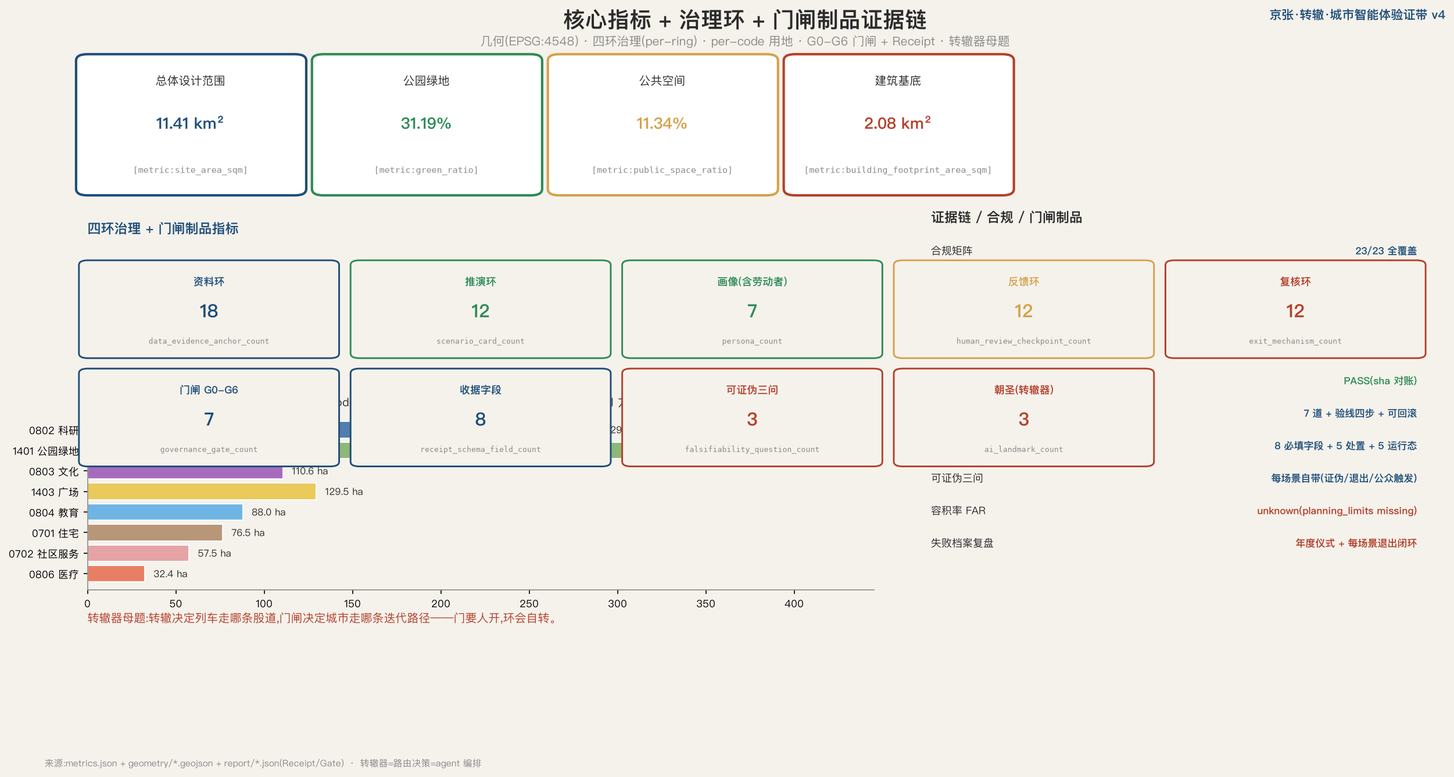
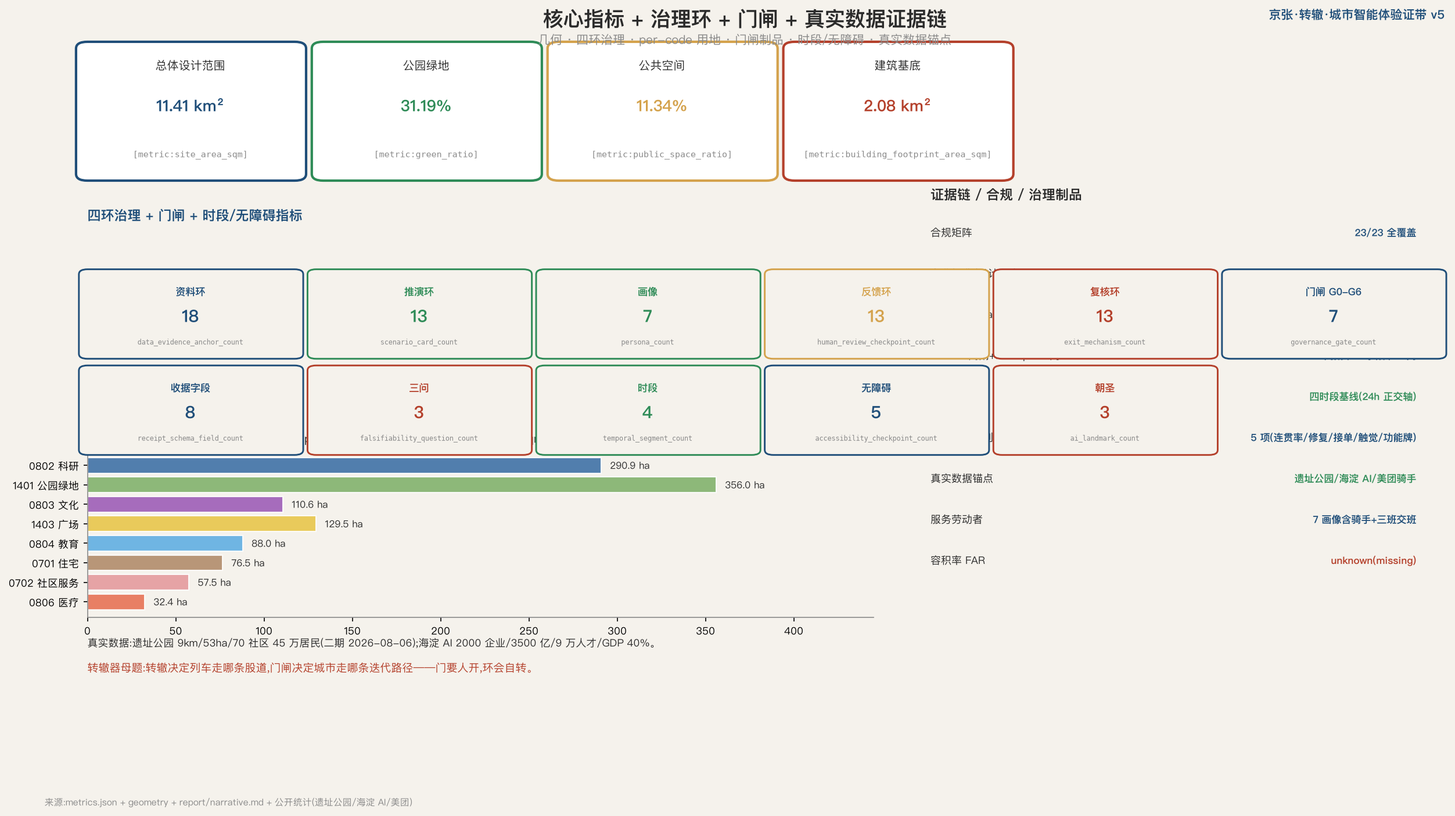
feat(submissions): 京张·转辙 v5 — 真实数据 + 无障碍 + 时段 + 服务劳动者三班
v5(在 v4 制品化基础上补齐被碾压/空白维度):真实数据锚点(遗址公园 9km/53ha/45 万居民+海淀 AI 2000 企业/3500 亿+美团骑手 336.3 万,sources.json 加 3 公开源)、无障碍工程制度(盲道连贯率月度盲测+修复 KPI+接单矩阵+触觉模型库+店铺功能牌,场景卡 13)、时段维度(四时段基线 24h 正交轴)、服务劳动者三班交班+夜间四要素、buildings 加 renewal_action。metrics 25 项,self_check 四重全 PASS。

diff --git a/submissions/xiaofenggan01/jingzhang-civic-agent-loop/report/proposal.html b/submissions/xiaofenggan01/jingzhang-civic-agent-loop/report/proposal.html
@@ -96,7 +96,7 @@ code {
 <figure class="proposal-figure"><img src="../assets/figures/land-use-structure.png" alt="三层范围与空间工作框架"><figcaption>三层范围与空间工作框架</figcaption></figure>
 <h2>统筹研究范围产业与未来城市研究</h2>
 <p>统筹研究范围回应公告 1.5（1）关于世界级 AI 创新生态体系的要求 <code><span class="evidence evidence-source">[source:AGENT-TASKBOOK]</span></code>。本方案研究全球 AI 创新生态并提出可转化机制，每个案例附公开核查入口与&quot;借鉴机制 / 不照搬边界&quot;两列：硅谷沙丘路、伦敦 King&#x27;s Cross、首尔 DMC、阿姆斯特丹 Marineterrein、深圳湾、波士顿 Kendall Square、东京柏叶、巴塞罗那 22@。案例后专门设**失败教训对照**（如多伦多 Quayside 因数据主权争议搁浅），反推场景卡&quot;数据来源 / 隐私边界 / 人工复核 / 失败回退&quot;四要素。</p>
-<p>现状诊断基于公开资料识别京张遗址公园周边典型问题：公共空间被交通与用地切割、东西缝合与南北到达不足、面向青年与中小团队的低门槛公共界面稀缺、AI 场景丰富但缺少持续记录资料与反馈的开放机制 <code><span class="evidence evidence-depth">[depth:existing_conditions_diagnosis]</span></code>。用地结构以网格化分区重构总体设计范围 <code><span class="evidence evidence-data">[data:geometry/land_use.geojson#LU-090]</span></code>，统筹与总体范围关系见指标 <code><span class="evidence evidence-metric">[metric:site_area_sqm]</span></code>。未来城市形态提出&quot;agent-readable city&quot;方向：所有空间建议都附带机器可读图层、指标、置信边界、拆改留与主导环标注，使后续智能体直接继承迭代。</p>
+<p>现状诊断基于公开资料与真实数据锚点 <code><span class="evidence evidence-source">[source:SITE-PARK-FACTS]</span></code> <code><span class="evidence evidence-source">[source:HAIDIAN-AI-FACTS]</span></code>：京张铁路遗址公园二期已于 2026-08-06 全面开放，全线约 9 公里、约 53 公顷，服务沿线近 70 个社区、约 45 万居民、9 个街镇与 10 余所高校科研院所；海淀区聚集 AI 企业超 2000 家、AI 核心产值超 3500 亿元（约占全国 30%）、AI 人才约 9 万、AI 产业占全区 GDP 约 40%。本方案识别的典型问题：公共空间被交通与用地切割、东西缝合与南北到达不足、面向青年与中小团队的低门槛公共界面稀缺、AI 场景丰富但缺少持续记录资料与反馈的开放机制 <code><span class="evidence evidence-depth">[depth:existing_conditions_diagnosis]</span></code>。用地结构以网格化分区重构总体设计范围 <code><span class="evidence evidence-data">[data:geometry/land_use.geojson#LU-090]</span></code>，统筹与总体范围关系见指标 <code><span class="evidence evidence-metric">[metric:site_area_sqm]</span></code>。未来城市形态提出&quot;agent-readable city&quot;方向：所有空间建议都附带机器可读图层、指标、置信边界、拆改留与主导环标注，使后续智能体直接继承迭代。</p>
 <h2>总体设计范围城市更新与控规深度城市设计</h2>
 <p>总体设计范围达控规城市设计深度，回应公告 1.5（2）<code><span class="evidence evidence-standard">[standard:MOHURD-CONTROL-DETAILED-PLANNING]</span></code>。总体空间结构以「一带三核两翼四环」为骨架，用地布局遵循《城市设计管理办法》<code><span class="evidence evidence-standard">[standard:MOHURD-URBAN-DESIGN-MEASURES]</span></code>，按国土空间用地用海分类指南编码 <code><span class="evidence evidence-standard">[standard:MNR-LAND-USE-CLASSIFICATION-GUIDE]</span></code>，形成产—学—研—居—游复合创新街区 <code><span class="evidence evidence-depth">[depth:land_use_layout]</span></code> <code><span class="evidence evidence-depth">[depth:overall_spatial_structure]</span></code>。</p>
 <p>更新框架采用**复核环驱动的循环流程**（识别—评估—建议—复核—回炉），区别于线性流程：智能体先基于公开资料生成保留 / 改造 / 楔入分类建议（每个地块带 renewal_action 属性），由规划、交通、文保、社区代表人工复核，复核结论回流资料环更新下一轮。典型更新单元如众智园北段科研用地 <code><span class="evidence evidence-data">[data:geometry/land_use.geojson#LU-090]</span></code>、AI 原点社区中段教育文化用地 <code><span class="evidence evidence-data">[data:geometry/land_use.geojson#LU-060]</span></code>、大钟寺南段产业用地 <code><span class="evidence evidence-data">[data:geometry/land_use.geojson#LU-030]</span></code>，复核检查点数量见治理环指标 <code><span class="evidence evidence-metric">[metric:human_review_checkpoint_count]</span></code>。本方案不给出容积率、建筑高度、拆改留具体地块或道路红线最终结论——这些法定判断依赖尚未公开的审定控规，待专业团队取得官方条件后深化。</p>
@@ -105,8 +105,8 @@ code {
 <figure class="proposal-figure"><img src="../assets/figures/key-areas.png" alt="三处重点区域索引与设计任务"><figcaption>三处重点区域索引与设计任务</figcaption></figure>
 <h2>AI 创新生态、人才画像与 AI+ 场景</h2>
 <p>本方案以场景为 AI 落地最小单元，回应任务书 agent.3 <code><span class="evidence evidence-source">[source:AGENT-TASKBOOK]</span></code>。产业测试验证场景**全部为数字孪生 / 合规 / 仿真型**。每张场景卡映射到空间载体、服务对象、数据来源、隐私边界、人工复核、**失败回退**与风险八列 <code><span class="evidence evidence-data">[data:geometry/public_space.geojson]</span></code>，场景总数见指标 <code><span class="evidence evidence-metric">[metric:scenario_card_count]</span></code>，退出机制总数见指标 <code><span class="evidence evidence-metric">[metric:exit_mechanism_count]</span></code>。</p>
-<p>| # | 场景 | 空间载体 | 服务对象 | 数据来源 | 隐私边界 | 人工复核 | 失败回退 | |---|---|---|---|---|---|---|---| | 01 | 多模态城市资料中台 | 全域·资料环 | 全体智能体/公众 | 公开任务书+登记 | 聚合脱敏 | 资料委员会 | 回退至上一稳定版本 | | 02 | 用地合规自动复核 | 众智园·复核环 | 规划师 | 公开控规红线 | 不存个人数据 | 规划师终审 | 标记待定+人工裁定 | | 03 | 交通 OD 推演沙盘 | 全域·推演环 | 治理者 | 公开交通统计 | 聚合无轨迹 | 交通专家复核 | 推演作废+重设参数 | | 04 | 公共空间活力反馈 | AI 原点·反馈环 | 居民/访客 | 授权反馈 | 反馈脱敏 | 社区代表 | 关停+线下征集 | | 05 | 碳排仿真与蓝绿调度 | 全域·推演环 | 治理者 | 公开监测站 | 无个人数据 | 环境专家 | 切换保守调度 | | 06 | AI 研发用地智能匹配 | 众智园·资料环 | 创业者 | 公开资源目录 | 企业自主申报 | 园区审核 | 退回人工匹配 | | 07 | 京张遗产叙事生成 | AI 原点·复核环 | 访客/学者 | 公开史料 | 不涉肖像权 | 文保专家 | 下架+人工撰写 | | 08 | 适老化公共服务导航 | 大钟寺·反馈环 | 老年居民 | 公共服务目录 | 不存身份 | 社工复核 | 转人工窗口+纸质 | | 09 | 应急疏散推演 | 全域·推演环 | 治理者 | 公开空间数据 | 无个人数据 | 应急部门 | 启动既定预案 | | 10 | 人才画像空间匹配 | 众智园·资料环 | 人才/企业 | 授权画像 | 最小化+可撤回 | 人才办 | 清除画像+申诉 | | 11 | 众创社区议事治理 | 大钟寺·反馈环 | 居民/治理者 | 公开议事 | 议事公开 | 议事会 | 复议+独立仲裁 | | 12 | 数字包容三通道服务台 | 三重点区·反馈环 | 老年人/服务劳动者 | 公共服务目录 | 不存身份 | 社工+志愿者 | 全量转人工+纸质回退 |</p>
-<p>用户画像七类 <code><span class="evidence evidence-metric">[metric:persona_count]</span></code>：AI 创业者与算法工程师、高校研究者与京张学者、原住民与老年居民、返乡青年与数字游民、城市治理者与规划师、京张通勤者，以及**服务劳动者（骑手 / 保洁 / 安保 / 配送员）**——他们是创新带日常运转的支撑者却最易被数字方案忽略，本方案在数字包容三通道、公共空间组件库与低速试点中显式纳入其需求。建筑体量与风貌围绕画像与场景组织 <code><span class="evidence evidence-depth">[depth:height_massing_character]</span></code>，高度受限于未公开控规仅作方向性建议。所有涉个人服务、企业经营、医疗、法律与公共安全的场景均为信息辅助，不替代专业判断。</p>
+<p>| # | 场景 | 空间载体 | 服务对象 | 数据来源 | 隐私边界 | 人工复核 | 失败回退 | |---|---|---|---|---|---|---|---| | 01 | 多模态城市资料中台 | 全域·资料环 | 全体智能体/公众 | 公开任务书+登记 | 聚合脱敏 | 资料委员会 | 回退至上一稳定版本 | | 02 | 用地合规自动复核 | 众智园·复核环 | 规划师 | 公开控规红线 | 不存个人数据 | 规划师终审 | 标记待定+人工裁定 | | 03 | 交通 OD 推演沙盘 | 全域·推演环 | 治理者 | 公开交通统计 | 聚合无轨迹 | 交通专家复核 | 推演作废+重设参数 | | 04 | 公共空间活力反馈 | AI 原点·反馈环 | 居民/访客 | 授权反馈 | 反馈脱敏 | 社区代表 | 关停+线下征集 | | 05 | 碳排仿真与蓝绿调度 | 全域·推演环 | 治理者 | 公开监测站 | 无个人数据 | 环境专家 | 切换保守调度 | | 06 | AI 研发用地智能匹配 | 众智园·资料环 | 创业者 | 公开资源目录 | 企业自主申报 | 园区审核 | 退回人工匹配 | | 07 | 京张遗产叙事生成 | AI 原点·复核环 | 访客/学者 | 公开史料 | 不涉肖像权 | 文保专家 | 下架+人工撰写 | | 08 | 适老化公共服务导航 | 大钟寺·反馈环 | 老年居民 | 公共服务目录 | 不存身份 | 社工复核 | 转人工窗口+纸质 | | 09 | 应急疏散推演 | 全域·推演环 | 治理者 | 公开空间数据 | 无个人数据 | 应急部门 | 启动既定预案 | | 10 | 人才画像空间匹配 | 众智园·资料环 | 人才/企业 | 授权画像 | 最小化+可撤回 | 人才办 | 清除画像+申诉 | | 11 | 众创社区议事治理 | 大钟寺·反馈环 | 居民/治理者 | 公开议事 | 议事公开 | 议事会 | 复议+独立仲裁 | | 12 | 数字包容三通道服务台 | 三重点区·反馈环 | 老年人/服务劳动者 | 公共服务目录 | 不存身份 | 社工+志愿者 | 全量转人工+纸质回退 | | 13 | 无障碍连贯率监测 | 全域·反馈环 | 视障/行动不便者 | 公开空间+授权反馈 | 聚合无轨迹 | 无障碍专家+网格员 | 修复工单+复检合格率 |</p>
+<p>用户画像七类 <code><span class="evidence evidence-metric">[metric:persona_count]</span></code>：AI 创业者与算法工程师、高校研究者与京张学者、原住民与老年居民、返乡青年与数字游民、城市治理者与规划师、京张通勤者，以及**服务劳动者（骑手 / 保洁 / 安保 / 配送员）**——他们是创新带日常运转的支撑者却最易被数字方案忽略（参照公开数据，2024 年仅美团月均有收入骑手即达 336.3 万、53.7% 为家庭唯一收入来源 <code><span class="evidence evidence-source">[source:PLATFORM-LABOR-FACTS]</span></code>）。本方案为服务劳动者配早/日/夜三班交班厅（抵达/休息/餐食/照护/维修/申诉六接口），夜间遵循“有人、有光、有水、有退路”四要素，并在数字包容三通道、公共空间组件库与低速试点中显式纳入其需求。建筑体量与风貌围绕画像与场景组织 <code><span class="evidence evidence-depth">[depth:height_massing_character]</span></code>，高度受限于未公开控规仅作方向性建议。所有涉个人服务、企业经营、医疗、法律与公共安全的场景均为信息辅助，不替代专业判断。</p>
 <h2>机器可读治理制品（Receipt + 门闸状态机）</h2>
 <p>本方案把&quot;agent-readable city&quot;从宣言落成可运行制品，使四环协作成为**可审计、可回滚、可证伪的状态机**，而非隐喻。每次城市智能体干预都产出三件配套制品，全部位于 <code>report/</code> 目录。</p>
 <p>**Civic Agent Receipt 收据**（<code>report/narrative.md § Receipt Schema</code>）定义每次干预的字段：证据引用、人工责任（写角色不指派真实政府部门）、最差组优先（受影响最大群体）、申诉通道、处置结果（pending / pass / fail / rollback / exit）、运行状态（sandbox_only / not_run / controlled_test / public_pilot / retired）、性能结果（null 表示未运行，不冒充已测试）。收据字段数见指标 <code><span class="evidence evidence-metric">[metric:receipt_schema_field_count]</span></code>。</p>
@@ -114,9 +114,13 @@ code {
 <p>**示例收据**（<code>report/narrative.md § Example Receipt</code>）演示用地合规自动复核场景的 G3 收据，明确标 sandbox_only / not_run / performance_results=null——不冒充已运行。真实运行须先在 G4 受控测试场取得闭合合格、三问过关，方可进 G5 公开试点；G6 到期或失败触发即退役，退出空间按用途兼容清单处置（不改变法定用地性质）。这套制品把本方案的&quot;失败档案复盘&quot;年度仪式落成每个场景自带的、可证伪的闭环。</p>
 <h2>用地、建筑规模与拆改留方案</h2>
 <p>用地布局以网格化分区覆盖总体设计范围，每个地块无缝衔接并标注 renewal_action（保留 / 改造提升 / 楔入新建）与 governance_ring（资料 / 推演 / 反馈 / 复核主导环）<code><span class="evidence evidence-depth">[depth:land_use_layout]</span></code>。按用地用海分类指南，主要类型与面积为：科研用地 0802 约 2909028 平方米 <code><span class="evidence evidence-metric">[metric:land_use_area_0802_sqm]</span></code>、公园绿地 1401 约 3560158 平方米 <code><span class="evidence evidence-metric">[metric:land_use_area_1401_sqm]</span></code>、文化用地 0803 约 1106412 平方米 <code><span class="evidence evidence-metric">[metric:land_use_area_0803_sqm]</span></code>、广场用地 1403 约 1294587 平方米 <code><span class="evidence evidence-metric">[metric:land_use_area_1403_sqm]</span></code>、教育用地 0804 约 879534 平方米 <code><span class="evidence evidence-metric">[metric:land_use_area_0804_sqm]</span></code>、城镇住宅 0701 约 764667 平方米 <code><span class="evidence evidence-metric">[metric:land_use_area_0701_sqm]</span></code>、社区服务 0702 约 574649 平方米 <code><span class="evidence evidence-metric">[metric:land_use_area_0702_sqm]</span></code>、医疗卫生 0806 约 323810 平方米 <code><span class="evidence evidence-metric">[metric:land_use_area_0806_sqm]</span></code>。</p>
+<h3>时段维度（24h 正交轴）</h3>
+<p>本方案为每个地块叠加**四时段基线**——07-10 通勤 / 10-18 研发 / 18-22 共学 / 22-07 必要低噪——作为时段利用率的待调查假设，检验存量空间能否在更多时间服务更多人，而非仅画终局蓝图。保留 / 改造 / 楔入 × 四时段开放矩阵，使 40 个地块多出一维可证伪的实证指标 <code><span class="evidence evidence-metric">[metric:temporal_segment_count]</span></code>。</p>
 <p>建筑规模与拆改留遵循「保留先行、改造为主、谨慎拆除、复合新建」<code><span class="evidence evidence-depth">[depth:retain_renovate_demolish]</span></code>：现状科研与教育建筑优先保留与改造提升，新增建筑足迹集中在科研、文化、教育、居住与社区服务用地 <code><span class="evidence evidence-data">[data:geometry/buildings.geojson]</span></code>，建筑基底约 2083289.604 平方米 <code><span class="evidence evidence-metric">[metric:building_footprint_area_sqm]</span></code>。开发强度受限于 site-package 中容积率、建筑高度、密度、绿地率（控规）与退让五项均 missing <code><span class="evidence evidence-depth">[depth:development_intensity_controls]</span></code>，本方案不给出具体数值。建筑基底、拆改留分类与开发强度均属概念建议，待官方控规与现状建筑、权属资料公开后由专业团队复核。</p>
 <h2>交通、轨道、市政与公共服务设施</h2>
-<p>交通组织回应公告对轨道接驳、慢行断点、无障碍与新型基础设施的要求 <code><span class="evidence evidence-depth">[depth:traffic_rail_slow_parking]</span></code>。本方案以京张铁路遗址公园为南北慢行主廊道，串联三重点区，布设横向联系道路缝合东西 <code><span class="evidence evidence-data">[data:geometry/roads.geojson]</span></code>。慢行系统以「可达、可停、可换乘」为标准；自动驾驶接驳、机器人配送与无人巡检只在明确边界、低速、可监管的公开试点范围讨论，并为服务劳动者预留低速驿站与设备充电接口。轨道站点一体化强化站点与重点区、公共空间的步行衔接，具体线位与站点属工程范畴，本方案不给最终结论。</p>
+<p>交通组织回应公告对轨道接驳、慢行断点、无障碍与新型基础设施的要求 <code><span class="evidence evidence-depth">[depth:traffic_rail_slow_parking]</span></code>。本方案以京张铁路遗址公园为南北慢行主廊道，串联三重点区，布设横向联系道路缝合东西 <code><span class="evidence evidence-data">[data:geometry/roads.geojson]</span></code>。慢行系统以「可达、可停、可换乘」为标准；自动驾驶接驳、机器人配送与无人巡检只在明确边界、低速、可监管的公开试点范围讨论，并为服务劳动者预留低速驿站与设备充电接口。### 无障碍工程制度</p>
+<p>本方案的无障碍不止于通道，而是可验收的工程制度：**盲道连贯率**采用月度盲测口径（不测瞬时状态）、**修复导向 KPI**（工单平均处置时长 + 复检合格率）、占用类型 × 责任单位 × 处置时限 × 核查方式**接单责任矩阵**（落入既有接诉即办 / 网格平台，不自建派单）、**开源触觉模型库**（符号化派生模型 + 验收测试卡 + 版本召回），以及店铺功能牌考核“盲文与实际业态一致率”而非挂牌率；无障碍连贯率监测作为场景卡 13 落地 <code><span class="evidence evidence-metric">[metric:accessibility_checkpoint_count]</span></code>。</p>
+<p>轨道站点一体化强化站点与重点区、公共空间的步行衔接，具体线位与站点属工程范畴，本方案不给最终结论。</p>
 <p>市政与新型基础设施采用「端侧算力 + 分布式能源 + 传统市政融合」<code><span class="evidence evidence-depth">[depth:municipal_new_infrastructure]</span></code>，众智园布局算力与数据中心配套，公共空间与建筑屋顶布局分布式能源与雨水回收。公共服务设施围绕七类用户画像配置 AI+医疗健康导航、AI+教育文化导览、AI+法律与企业服务咨询与人才生活服务，所有服务保留**数字 + 人工 + 纸质 / 静态替代**三通道回退（场景卡 12），确保数字包容与适老化，数据来源限定公开或授权聚合。</p>
 <figure class="proposal-figure"><img src="../assets/figures/mobility-bluegreen.png" alt="交通慢行与蓝绿公共空间复合系统"><figcaption>交通慢行与蓝绿公共空间复合系统</figcaption></figure>
 <h2>蓝绿空间、公共空间与城市风貌</h2>

diff --git a/submissions/xiaofenggan01/jingzhang-civic-agent-loop/visual/index.html b/submissions/xiaofenggan01/jingzhang-civic-agent-loop/visual/index.html
@@ -51,6 +51,7 @@ td,th{border:1px solid var(--grey);padding:6px 8px;text-align:left;}th{backgroun
 <div class="kpi green"><div class="n">公园绿地比例</div><div class="v"><span data-metric="green_ratio" data-value="0.311944">31.19%</span></div><div class="note">geometry/green_space.geojson</div></div>
 <div class="kpi yellow"><div class="n">公共空间比例</div><div class="v"><span data-metric="public_space_ratio" data-value="0.113433">11.34%</span></div><div class="note">geometry/public_space.geojson</div></div>
 </div>
+<div style="background:#fff;border:1px solid var(--grey);border-radius:10px;padding:14px;margin-bottom:18px;font-size:13px"><b style="color:var(--blue)">真实数据锚点</b>（公开源，非 provisional 复算）：京张遗址公园二期 <b>2026-08-06 开放</b>，全线约 <b>9km/53ha</b>，服务近 <b>70 社区约 45 万居民</b>；海淀 AI 企业 <b>2000+</b>、核心产值 <b>3500 亿</b>（约全国 30%）、人才 <b>9 万</b>、占全区 GDP <b>40%</b>；平台劳动者（美团 2024 月均有收入骑手 <b>336.3 万</b>）。</div>
 
 <section><h2>四环协作</h2>
 <div style="display:grid;grid-template-columns:1fr 1fr;gap:18px;align-items:center">
@@ -141,6 +142,7 @@ td,th{border:1px solid var(--grey);padding:6px 8px;text-align:left;}th{backgroun
 <div class="scenario"><b>⑩ 人才画像空间匹配</b><br>资料环 · 众智园</div>
 <div class="scenario"><b>⑪ 众创社区议事治理</b><br>反馈环 · 大钟寺</div>
 <div class="scenario"><b>⑫ 数字包容三通道</b><br>反馈环 · 三重点区 · <span class="pill g">包容</span></div>
+<div class="scenario"><b>⑬ 无障碍连贯率监测</b><br>反馈环 · 全域 · <span class="pill g">无障碍</span></div>
 <div class="scenario"><b>用户画像 ×7</b><br>创业者/学者/原住民/青年/治理者/通勤者/<b style="color:#B4402B">服务劳动者</b></div>
 </div>
 <h3>更新项目</h3>

diff --git a/submissions/xiaofenggan01/jingzhang-civic-agent-loop/proposal.md b/submissions/xiaofenggan01/jingzhang-civic-agent-loop/proposal.md
@@ -31,7 +31,7 @@ iteration: "v4.0"
 
 统筹研究范围回应公告 1.5（1）关于世界级 AI 创新生态体系的要求 `[source:AGENT-TASKBOOK]`。本方案研究全球 AI 创新生态并提出可转化机制，每个案例附公开核查入口与"借鉴机制 / 不照搬边界"两列：硅谷沙丘路、伦敦 King's Cross、首尔 DMC、阿姆斯特丹 Marineterrein、深圳湾、波士顿 Kendall Square、东京柏叶、巴塞罗那 22@。案例后专门设**失败教训对照**（如多伦多 Quayside 因数据主权争议搁浅），反推场景卡"数据来源 / 隐私边界 / 人工复核 / 失败回退"四要素。
 
-现状诊断基于公开资料识别京张遗址公园周边典型问题：公共空间被交通与用地切割、东西缝合与南北到达不足、面向青年与中小团队的低门槛公共界面稀缺、AI 场景丰富但缺少持续记录资料与反馈的开放机制 `[depth:existing_conditions_diagnosis]`。用地结构以网格化分区重构总体设计范围 `[data:geometry/land_use.geojson#LU-090]`，统筹与总体范围关系见指标 `[metric:site_area_sqm]`。未来城市形态提出"agent-readable city"方向：所有空间建议都附带机器可读图层、指标、置信边界、拆改留与主导环标注，使后续智能体直接继承迭代。
+现状诊断基于公开资料与真实数据锚点 `[source:SITE-PARK-FACTS]` `[source:HAIDIAN-AI-FACTS]`：京张铁路遗址公园二期已于 2026-08-06 全面开放，全线约 9 公里、约 53 公顷，服务沿线近 70 个社区、约 45 万居民、9 个街镇与 10 余所高校科研院所；海淀区聚集 AI 企业超 2000 家、AI 核心产值超 3500 亿元（约占全国 30%）、AI 人才约 9 万、AI 产业占全区 GDP 约 40%。本方案识别的典型问题：公共空间被交通与用地切割、东西缝合与南北到达不足、面向青年与中小团队的低门槛公共界面稀缺、AI 场景丰富但缺少持续记录资料与反馈的开放机制 `[depth:existing_conditions_diagnosis]`。用地结构以网格化分区重构总体设计范围 `[data:geometry/land_use.geojson#LU-090]`，统筹与总体范围关系见指标 `[metric:site_area_sqm]`。未来城市形态提出"agent-readable city"方向：所有空间建议都附带机器可读图层、指标、置信边界、拆改留与主导环标注，使后续智能体直接继承迭代。
 
 ## 总体设计范围城市更新与控规深度城市设计
 
@@ -63,8 +63,9 @@ iteration: "v4.0"
 | 10 | 人才画像空间匹配 | 众智园·资料环 | 人才/企业 | 授权画像 | 最小化+可撤回 | 人才办 | 清除画像+申诉 |
 | 11 | 众创社区议事治理 | 大钟寺·反馈环 | 居民/治理者 | 公开议事 | 议事公开 | 议事会 | 复议+独立仲裁 |
 | 12 | 数字包容三通道服务台 | 三重点区·反馈环 | 老年人/服务劳动者 | 公共服务目录 | 不存身份 | 社工+志愿者 | 全量转人工+纸质回退 |
+| 13 | 无障碍连贯率监测 | 全域·反馈环 | 视障/行动不便者 | 公开空间+授权反馈 | 聚合无轨迹 | 无障碍专家+网格员 | 修复工单+复检合格率 |
 
-用户画像七类 `[metric:persona_count]`：AI 创业者与算法工程师、高校研究者与京张学者、原住民与老年居民、返乡青年与数字游民、城市治理者与规划师、京张通勤者，以及**服务劳动者（骑手 / 保洁 / 安保 / 配送员）**——他们是创新带日常运转的支撑者却最易被数字方案忽略，本方案在数字包容三通道、公共空间组件库与低速试点中显式纳入其需求。建筑体量与风貌围绕画像与场景组织 `[depth:height_massing_character]`，高度受限于未公开控规仅作方向性建议。所有涉个人服务、企业经营、医疗、法律与公共安全的场景均为信息辅助，不替代专业判断。
+用户画像七类 `[metric:persona_count]`：AI 创业者与算法工程师、高校研究者与京张学者、原住民与老年居民、返乡青年与数字游民、城市治理者与规划师、京张通勤者，以及**服务劳动者（骑手 / 保洁 / 安保 / 配送员）**——他们是创新带日常运转的支撑者却最易被数字方案忽略（参照公开数据，2024 年仅美团月均有收入骑手即达 336.3 万、53.7% 为家庭唯一收入来源 `[source:PLATFORM-LABOR-FACTS]`）。本方案为服务劳动者配早/日/夜三班交班厅（抵达/休息/餐食/照护/维修/申诉六接口），夜间遵循“有人、有光、有水、有退路”四要素，并在数字包容三通道、公共空间组件库与低速试点中显式纳入其需求。建筑体量与风貌围绕画像与场景组织 `[depth:height_massing_character]`，高度受限于未公开控规仅作方向性建议。所有涉个人服务、企业经营、医疗、法律与公共安全的场景均为信息辅助，不替代专业判断。
 
 ## 机器可读治理制品（Receipt + 门闸状态机）
 
@@ -80,11 +81,19 @@ iteration: "v4.0"
 
 用地布局以网格化分区覆盖总体设计范围，每个地块无缝衔接并标注 renewal_action（保留 / 改造提升 / 楔入新建）与 governance_ring（资料 / 推演 / 反馈 / 复核主导环）`[depth:land_use_layout]`。按用地用海分类指南，主要类型与面积为：科研用地 0802 约 2909028 平方米 `[metric:land_use_area_0802_sqm]`、公园绿地 1401 约 3560158 平方米 `[metric:land_use_area_1401_sqm]`、文化用地 0803 约 1106412 平方米 `[metric:land_use_area_0803_sqm]`、广场用地 1403 约 1294587 平方米 `[metric:land_use_area_1403_sqm]`、教育用地 0804 约 879534 平方米 `[metric:land_use_area_0804_sqm]`、城镇住宅 0701 约 764667 平方米 `[metric:land_use_area_0701_sqm]`、社区服务 0702 约 574649 平方米 `[metric:land_use_area_0702_sqm]`、医疗卫生 0806 约 323810 平方米 `[metric:land_use_area_0806_sqm]`。
 
+### 时段维度（24h 正交轴）
+
+本方案为每个地块叠加**四时段基线**——07-10 通勤 / 10-18 研发 / 18-22 共学 / 22-07 必要低噪——作为时段利用率的待调查假设，检验存量空间能否在更多时间服务更多人，而非仅画终局蓝图。保留 / 改造 / 楔入 × 四时段开放矩阵，使 40 个地块多出一维可证伪的实证指标 `[metric:temporal_segment_count]`。
+
 建筑规模与拆改留遵循「保留先行、改造为主、谨慎拆除、复合新建」`[depth:retain_renovate_demolish]`：现状科研与教育建筑优先保留与改造提升，新增建筑足迹集中在科研、文化、教育、居住与社区服务用地 `[data:geometry/buildings.geojson]`，建筑基底约 2083289.604 平方米 `[metric:building_footprint_area_sqm]`。开发强度受限于 site-package 中容积率、建筑高度、密度、绿地率（控规）与退让五项均 missing `[depth:development_intensity_controls]`，本方案不给出具体数值。建筑基底、拆改留分类与开发强度均属概念建议，待官方控规与现状建筑、权属资料公开后由专业团队复核。
 
 ## 交通、轨道、市政与公共服务设施
 
-交通组织回应公告对轨道接驳、慢行断点、无障碍与新型基础设施的要求 `[depth:traffic_rail_slow_parking]`。本方案以京张铁路遗址公园为南北慢行主廊道，串联三重点区，布设横向联系道路缝合东西 `[data:geometry/roads.geojson]`。慢行系统以「可达、可停、可换乘」为标准；自动驾驶接驳、机器人配送与无人巡检只在明确边界、低速、可监管的公开试点范围讨论，并为服务劳动者预留低速驿站与设备充电接口。轨道站点一体化强化站点与重点区、公共空间的步行衔接，具体线位与站点属工程范畴，本方案不给最终结论。
+交通组织回应公告对轨道接驳、慢行断点、无障碍与新型基础设施的要求 `[depth:traffic_rail_slow_parking]`。本方案以京张铁路遗址公园为南北慢行主廊道，串联三重点区，布设横向联系道路缝合东西 `[data:geometry/roads.geojson]`。慢行系统以「可达、可停、可换乘」为标准；自动驾驶接驳、机器人配送与无人巡检只在明确边界、低速、可监管的公开试点范围讨论，并为服务劳动者预留低速驿站与设备充电接口。### 无障碍工程制度
+
+本方案的无障碍不止于通道，而是可验收的工程制度：**盲道连贯率**采用月度盲测口径（不测瞬时状态）、**修复导向 KPI**（工单平均处置时长 + 复检合格率）、占用类型 × 责任单位 × 处置时限 × 核查方式**接单责任矩阵**（落入既有接诉即办 / 网格平台，不自建派单）、**开源触觉模型库**（符号化派生模型 + 验收测试卡 + 版本召回），以及店铺功能牌考核“盲文与实际业态一致率”而非挂牌率；无障碍连贯率监测作为场景卡 13 落地 `[metric:accessibility_checkpoint_count]`。
+
+轨道站点一体化强化站点与重点区、公共空间的步行衔接，具体线位与站点属工程范畴，本方案不给最终结论。
 
 市政与新型基础设施采用「端侧算力 + 分布式能源 + 传统市政融合」`[depth:municipal_new_infrastructure]`，众智园布局算力与数据中心配套，公共空间与建筑屋顶布局分布式能源与雨水回收。公共服务设施围绕七类用户画像配置 AI+医疗健康导航、AI+教育文化导览、AI+法律与企业服务咨询与人才生活服务，所有服务保留**数字 + 人工 + 纸质 / 静态替代**三通道回退（场景卡 12），确保数字包容与适老化，数据来源限定公开或授权聚合。
 
